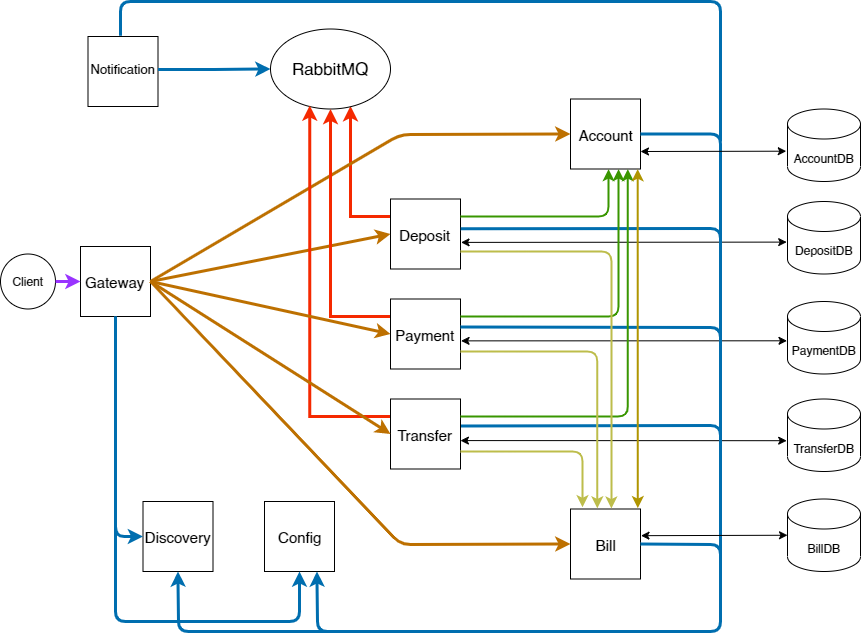
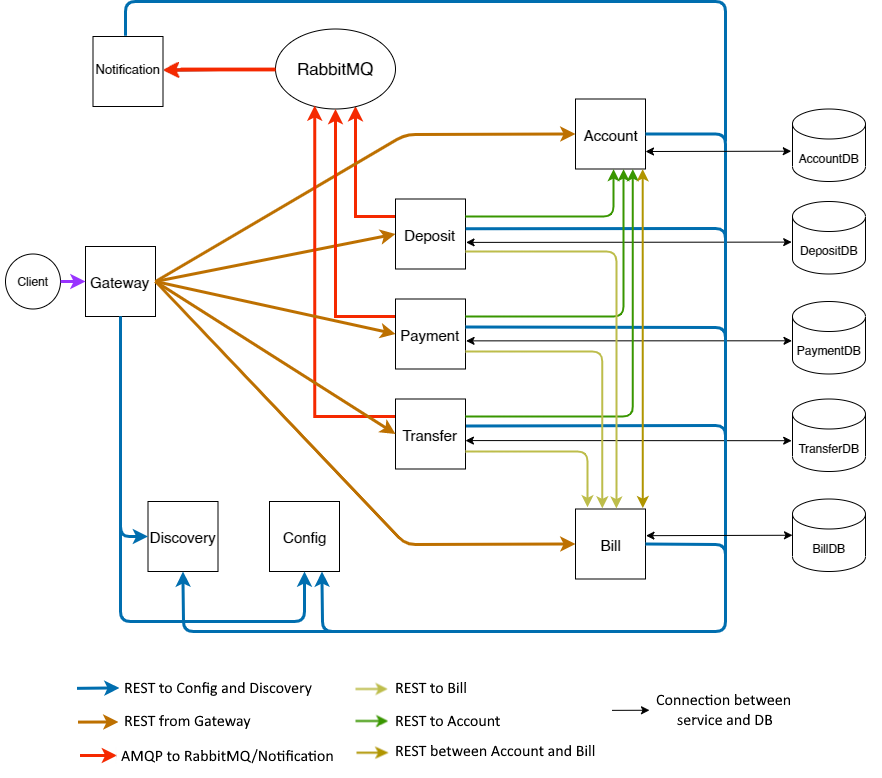
Readme.md is added + image, get-methods for some services.

Changed region(s): [[0.0, 0.0, 1.0, 0.9969], [0.935, 0.7788, 1.0, 0.8723], [0.8747, 0.7788, 0.935, 0.8411]]

diff --git a/transfer-service/src/main/java/com/miihe/transfer/controller/TransferController.java b/transfer-service/src/main/java/com/miihe/transfer/controller/TransferController.java
@@ -2,11 +2,12 @@ package com.miihe.transfer.controller;
 
 import com.miihe.transfer.controller.dto.TransferRequestDTO;
 import com.miihe.transfer.controller.dto.TransferResponseDTO;
+import com.miihe.transfer.entity.Transfer;
 import com.miihe.transfer.service.TransferService;
 import org.springframework.beans.factory.annotation.Autowired;
-import org.springframework.web.bind.annotation.PostMapping;
-import org.springframework.web.bind.annotation.RequestBody;
-import org.springframework.web.bind.annotation.RestController;
+import org.springframework.web.bind.annotation.*;
+
+import java.util.List;
 
 @RestController
 public class TransferController {
@@ -22,5 +23,11 @@ public class TransferController {
     public TransferResponseDTO transfer(@RequestBody TransferRequestDTO transferRequestDTO) {
         return transferService.transfer(transferRequestDTO.getSenderAccountId(), transferRequestDTO.getPayeeAccountId(),
                 transferRequestDTO.getSenderBillId(), transferRequestDTO.getPayeeBillId(), transferRequestDTO.getAmount());
+    }
+
+    @GetMapping("/transfers/{transferId}")
+    public TransferResponseDTO getPaymentsByBillId(@PathVariable Long transferId) {
+        Transfer transfer = transferService.getTransferById(transferId);
+        return new TransferResponseDTO(transfer.getAmount(), transfer.getSenderName(), transfer.getPayeeName());
     }
 }

diff --git a/deposit-service/src/main/java/com/miihe/deposit/controller/DepositController.java b/deposit-service/src/main/java/com/miihe/deposit/controller/DepositController.java
@@ -2,11 +2,13 @@ package com.miihe.deposit.controller;
 
 import com.miihe.deposit.controller.dto.DepositRequestDTO;
 import com.miihe.deposit.controller.dto.DepositResponseDTO;
+import com.miihe.deposit.entity.Deposit;
 import com.miihe.deposit.service.DepositService;
 import org.springframework.beans.factory.annotation.Autowired;
-import org.springframework.web.bind.annotation.PostMapping;
-import org.springframework.web.bind.annotation.RequestBody;
-import org.springframework.web.bind.annotation.RestController;
+import org.springframework.web.bind.annotation.*;
+
+import java.util.List;
+import java.util.Optional;
 
 @RestController
 public class DepositController {
@@ -22,5 +24,10 @@ public class DepositController {
     public DepositResponseDTO depositResponseDTO(@RequestBody DepositRequestDTO depositRequestDTO) {
         return depositService.deposit(depositRequestDTO.getAccountId(),
                 depositRequestDTO.getBillId(), depositRequestDTO.getAmount());
+    }
+
+    @GetMapping("/deposits/{billId}")
+    public List<Deposit> getDepositByBillId(@PathVariable Long billId) {
+        return depositService.getDepositByBillId(billId);
     }
 }

diff --git a/payment-service/src/main/java/com/miihe/payment/controller/PaymentController.java b/payment-service/src/main/java/com/miihe/payment/controller/PaymentController.java
@@ -2,11 +2,12 @@ package com.miihe.payment.controller;
 
 import com.miihe.payment.controller.dto.PaymentRequestDTO;
 import com.miihe.payment.controller.dto.PaymentResponseDTO;
+import com.miihe.payment.entity.Payment;
 import com.miihe.payment.service.PaymentService;
 import org.springframework.beans.factory.annotation.Autowired;
-import org.springframework.web.bind.annotation.PostMapping;
-import org.springframework.web.bind.annotation.RequestBody;
-import org.springframework.web.bind.annotation.RestController;
+import org.springframework.web.bind.annotation.*;
+
+import java.util.List;
 
 @RestController
 public class PaymentController {
@@ -22,5 +23,10 @@ public class PaymentController {
     public PaymentResponseDTO paymentResponseDTO(@RequestBody PaymentRequestDTO paymentRequestDTO) {
         return paymentService.payment(paymentRequestDTO.getAccountId(),
                 paymentRequestDTO.getBillId(), paymentRequestDTO.getAmount());
+    }
+
+    @GetMapping("/payments/{billId}")
+    public List<Payment> getPaymentsByBillId(@PathVariable Long billId) {
+        return paymentService.getPaymentsByBillId(billId);
     }
 }

diff --git a/deposit-service/src/main/java/com/miihe/deposit/service/DepositService.java b/deposit-service/src/main/java/com/miihe/deposit/service/DepositService.java
@@ -14,6 +14,9 @@ import org.springframework.stereotype.Service;
 
 import java.math.BigDecimal;
 import java.time.OffsetDateTime;
+import java.util.ArrayList;
+import java.util.List;
+import java.util.Optional;
 
 @Service
 public class DepositService {
@@ -105,5 +108,12 @@ public class DepositService {
                 filter(BillResponseDTO::getIsDefault).
                 findAny().orElseThrow(() ->
                 new DepositServiceException("Unable to find default bill for account: " + accountId));
+    }
+
+    public List<Deposit> getDepositByBillId(Long billId) {
+        if (depositRepository.findAllDepositsByBillId(billId).isEmpty()) {
+            throw new DepositServiceException("Unable to find any deposits to bill with id " + billId);
+        }
+        return depositRepository.findAllDepositsByBillId(billId);
     }
 }

diff --git a/payment-service/src/main/java/com/miihe/payment/service/PaymentService.java b/payment-service/src/main/java/com/miihe/payment/service/PaymentService.java
@@ -14,6 +14,7 @@ import org.springframework.stereotype.Service;
 
 import java.math.BigDecimal;
 import java.time.OffsetDateTime;
+import java.util.List;
 
 @Service
 public class PaymentService {
@@ -104,5 +105,12 @@ public class PaymentService {
                 filter(BillResponseDTO::getIsDefault).
                 findAny().orElseThrow(() ->
                 new PaymentServiceException("Unable to find default bill for account: " + accountId));
+    }
+
+    public List<Payment> getPaymentsByBillId(Long billId) {
+        if (paymentRepository.findAllPaymentsByBillId(billId).isEmpty()) {
+            throw new PaymentServiceException("Unable to find any payment from bill with id: " + billId);
+        }
+        return paymentRepository.findAllPaymentsByBillId(billId);
     }
 }

diff --git a/transfer-service/src/main/java/com/miihe/transfer/service/TransferService.java b/transfer-service/src/main/java/com/miihe/transfer/service/TransferService.java
@@ -127,4 +127,10 @@ public class TransferService {
                 findAny().orElseThrow(() ->
                 new TransferServiceException("Unable to find default bill for account: " + accountId));
     }
+
+    public Transfer getTransferById(Long transferId) {
+
+        return transferRepository.findById(transferId)
+                .orElseThrow(() -> new TransferServiceException("Unable to find default bill for account: " + transferId));
+    }
 }

diff --git a/transfer-service/src/main/java/com/miihe/transfer/controller/dto/TransferResponseDTO.java b/transfer-service/src/main/java/com/miihe/transfer/controller/dto/TransferResponseDTO.java
@@ -22,4 +22,10 @@ public class TransferResponseDTO {
     private String senderEmail;
 
     private String payeeEmail;
+
+    public TransferResponseDTO(BigDecimal amount, String senderName, String payeeName) {
+        this.amount = amount;
+        this.senderName = senderName;
+        this.payeeName = payeeName;
+    }
 }

diff --git a/deposit-service/src/main/java/com/miihe/deposit/repository/DepositRepository.java b/deposit-service/src/main/java/com/miihe/deposit/repository/DepositRepository.java
@@ -8,4 +8,6 @@ import java.util.List;
 public interface DepositRepository extends CrudRepository<Deposit, Long> {
 
     List<Deposit> findDepositsByEmail(String email);
+
+    List<Deposit> findAllDepositsByBillId(Long billId);
 }

diff --git a/payment-service/src/main/java/com/miihe/payment/repository/PaymentRepository.java b/payment-service/src/main/java/com/miihe/payment/repository/PaymentRepository.java
@@ -8,4 +8,6 @@ import java.util.List;
 public interface PaymentRepository extends CrudRepository<Payment, Long> {
 
     List<Payment> findPaymentsByEmail(String email);
+
+    List<Payment> findAllPaymentsByBillId(Long billId);
 }

diff --git a/README.md b/README.md
@@ -5,6 +5,7 @@ Three main operations with balance of bills:
 - deposit;
 - payment;
 - transfer.
+In the project uses 9 microservices (more details below). 
 
 ## Tags
 - Microservices;
@@ -22,7 +23,44 @@ Three main operations with balance of bills:
 - RabbitMQ;
 - AMQP.
 
-# Architecture of project
+## Architecture of project
+![Image alt](https://github.com/miihe/spring-cloud-microservices/blob/master/image/Architecture.png?raw=true)
 
-
-
+Note:
+1. Configuration service (***Config***) - in this service is stored configurations of other services. 
+   Realized by the Spring Cloud Config.
+2. Discovery service (***Discovery***) -  execute function of detection other services and also 
+   registration their addresses of instances.
+3. Gateway service (***Gateway***) - single entry point to application.
+4. Account service (***Account***) - is a service for working with accounts. 
+   Performs operations of receiving, creating, updating, deleting accounts.
+5. Bill service (***Bill***) - is a service for working with bills.
+   Performs operations of receiving, creating, updating, deleting accounts.    
+6. Deposit service (***Deposit***) - service for make deposit to bill. 
+7. Payment service (***Payment***) - service for make payment from some bill.
+8. Transfer service (***Transfer***) - service for make transfer "bill-to-bill".
+9. Notification service (***Notification***) - service which responds for notification about executed 
+   operations deposit, payment or transfer. For this purpose using the RabbitMQ (message-broker software).
+   
+## Requests table
+| HTTP METHOD | PATH | OPTION | NECESSARY FIELDS |
+|---------|---------|:----------------:|:-------:|
+| account-service (port 8081) |
+| **GET** | /accounts/{accountId} | get the account by id | account_id in the request URI mapping |
+| **POST** | /accounts/ | create account and one default bill | name, email, phone |
+| **PUT** | /accounts/{accountId} | update account by id | name, email, phone |
+| **DELETE** | /accounts/{accountId} | delete account by id | account_id in the request URI mapping |
+| bill-service (port 8082) |
+| **GET** | /bills/{billId} | get the bill by id | bill_id in the request URI mapping |
+| **POST** | /bills/ | create bill | account_id, amount, is_default, is_overdraft_enable |
+| **PUT** | /bills/{billId} | update bill by id | bill_id in the request URI mapping and JSON: is_default, is_overdraft_enable |
+| **DELETE** | /bills/{billId} | delete bill by id | bill_id in the request URI mapping |
+| deposit-service (port 9991) |
+| **POST** | /deposits/ | make a deposit to bill | bill_id or account_id (bill_id at priority), amount |
+| **GET** | /deposits/{billId} | get all deposits to bill by id | bill_id in the request URI mapping |
+| payment-service (port 8888) |
+| **POST** | /payments/ | make a payment to bill | bill_id or account_id (bill_id at priority), amount |
+| **GET** | /payments/{billId} | get all payments from bill by id | bill_id in the request URI mapping |
+| transfer-service (port 8889) |
+| **POST** | /transfers/ | make a transfer bill-to-bill | bill_id or account_id of sender (bill_id at priority), bill_id or account_id of payee (bill_id at priority), amount |
+| **GET** | /transfers/{transferId} | get transfer by id | transfer_id in the request URI mapping |
